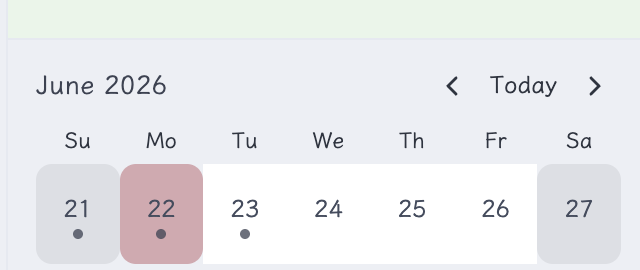
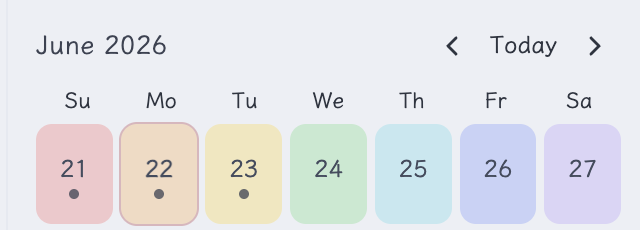
Differentiate calendar design with rainbow dates

diff --git a/styles.css b/styles.css
@@ -21,6 +21,7 @@
 
 .mini-calendar {
   --mini-calendar-cell-height: 50px;
+  --mini-calendar-day-gap: 4px;
   box-sizing: border-box;
   min-width: 238px;
   padding: 10px 14px 8px;
@@ -135,6 +136,7 @@ button.mini-calendar__today:focus-visible,
 
 .mini-calendar__days {
   align-items: stretch;
+  gap: var(--mini-calendar-day-gap);
 }
 
 .mini-calendar__day {
@@ -148,46 +150,120 @@ button.mini-calendar__today:focus-visible,
   margin: 0;
   padding: 2px 0 0;
   color: var(--text-muted);
-  background: transparent;
-  border-radius: 0;
+  background: color-mix(in srgb, var(--background-modifier-hover) 58%, transparent);
+  border: 1px solid transparent;
+  border-radius: var(--radius-m);
   cursor: pointer;
 }
 
-.mini-calendar__day.is-weekend {
-  background: var(--background-modifier-hover);
+.mini-calendar:not(.is-rainbow) .mini-calendar__day.is-weekend {
+  background: #e8f5e9;
+  border-color: #d6e8df;
 }
 
-.mini-calendar__day.is-weekend-start {
-  border-radius: var(--radius-m) 0 0 var(--radius-m);
+.mini-calendar:not(.is-rainbow) .mini-calendar__day.is-weekend.is-today {
+  border-color: var(--interactive-accent);
 }
 
-.mini-calendar__day.is-weekend-end {
-  border-radius: 0 var(--radius-m) var(--radius-m) 0;
+body.theme-dark .mini-calendar:not(.is-rainbow) .mini-calendar__day.is-weekend {
+  background: color-mix(in srgb, #498f6f 24%, var(--background-secondary));
+  border-color: color-mix(in srgb, #498f6f 44%, transparent);
 }
 
-.mini-calendar__day.is-weekend-start.is-weekend-end {
-  border-radius: var(--radius-m);
+body.theme-dark .mini-calendar:not(.is-rainbow) .mini-calendar__day.is-weekend.is-today {
+  border-color: var(--interactive-accent);
 }
 
 .mini-calendar__day:hover {
   color: var(--text-normal);
-  background: color-mix(in srgb, var(--interactive-accent) 12%, var(--background-secondary));
-  border-radius: var(--radius-m);
+  background: color-mix(in srgb, var(--interactive-accent) 14%, var(--background-secondary));
+  border-color: color-mix(in srgb, var(--interactive-accent) 45%, transparent);
 }
 
 .mini-calendar__day.is-today {
   color: var(--text-normal);
-  background: color-mix(in srgb, var(--interactive-accent) 55%, var(--background-secondary));
-  border-radius: var(--radius-m);
+  background: color-mix(in srgb, var(--interactive-accent) 16%, var(--background-secondary));
+  border-color: var(--interactive-accent);
+  font-weight: var(--font-semibold);
 }
 
 .mini-calendar__day.is-active-note::after {
   content: "";
   position: absolute;
-  inset: 2px;
-  border: 1px solid var(--interactive-accent);
-  border-radius: var(--radius-m);
+  inset: 3px;
+  border: 1px solid color-mix(in srgb, var(--interactive-accent) 75%, transparent);
+  border-radius: calc(var(--radius-m) - 2px);
   pointer-events: none;
+}
+
+.mini-calendar.is-rainbow .mini-calendar__day:nth-child(1) {
+  background: color-mix(in srgb, #ff6b6b 30%, var(--background-secondary));
+}
+
+.mini-calendar.is-rainbow .mini-calendar__day:nth-child(2) {
+  background: color-mix(in srgb, #ffa94d 30%, var(--background-secondary));
+}
+
+.mini-calendar.is-rainbow .mini-calendar__day:nth-child(3) {
+  background: color-mix(in srgb, #ffd43b 30%, var(--background-secondary));
+}
+
+.mini-calendar.is-rainbow .mini-calendar__day:nth-child(4) {
+  background: color-mix(in srgb, #69db7c 30%, var(--background-secondary));
+}
+
+.mini-calendar.is-rainbow .mini-calendar__day:nth-child(5) {
+  background: color-mix(in srgb, #66d9e8 30%, var(--background-secondary));
+}
+
+.mini-calendar.is-rainbow .mini-calendar__day:nth-child(6) {
+  background: color-mix(in srgb, #748ffc 30%, var(--background-secondary));
+}
+
+.mini-calendar.is-rainbow .mini-calendar__day:nth-child(7) {
+  background: color-mix(in srgb, #b197fc 30%, var(--background-secondary));
+}
+
+.mini-calendar.is-rainbow .mini-calendar__day:hover {
+  border-color: color-mix(in srgb, currentColor 35%, transparent);
+  filter: saturate(1.12) brightness(1.03);
+}
+
+.mini-calendar.is-rainbow .mini-calendar__day.is-today {
+  border-color: var(--interactive-accent);
+  box-shadow: 0 0 0 1px color-mix(in srgb, var(--interactive-accent) 45%, transparent);
+}
+
+body.theme-dark .mini-calendar.is-rainbow .mini-calendar__day {
+  background-blend-mode: normal;
+}
+
+body.theme-dark .mini-calendar.is-rainbow .mini-calendar__day:nth-child(1) {
+  background: color-mix(in srgb, #ff6b6b 22%, var(--background-secondary));
+}
+
+body.theme-dark .mini-calendar.is-rainbow .mini-calendar__day:nth-child(2) {
+  background: color-mix(in srgb, #ffa94d 22%, var(--background-secondary));
+}
+
+body.theme-dark .mini-calendar.is-rainbow .mini-calendar__day:nth-child(3) {
+  background: color-mix(in srgb, #ffd43b 22%, var(--background-secondary));
+}
+
+body.theme-dark .mini-calendar.is-rainbow .mini-calendar__day:nth-child(4) {
+  background: color-mix(in srgb, #69db7c 22%, var(--background-secondary));
+}
+
+body.theme-dark .mini-calendar.is-rainbow .mini-calendar__day:nth-child(5) {
+  background: color-mix(in srgb, #66d9e8 22%, var(--background-secondary));
+}
+
+body.theme-dark .mini-calendar.is-rainbow .mini-calendar__day:nth-child(6) {
+  background: color-mix(in srgb, #748ffc 22%, var(--background-secondary));
+}
+
+body.theme-dark .mini-calendar.is-rainbow .mini-calendar__day:nth-child(7) {
+  background: color-mix(in srgb, #b197fc 22%, var(--background-secondary));
 }
 
 .mini-calendar__day-number {
@@ -234,5 +310,9 @@ button.mini-calendar__today:focus-visible,
 
   .mini-calendar__day {
     --mini-calendar-cell-height: 49px;
+  }
+
+  .mini-calendar {
+    --mini-calendar-day-gap: 3px;
   }
 }

diff --git a/src/settings.ts b/src/settings.ts
@@ -6,12 +6,14 @@ export type WeekStartSetting = "locale" | "monday" | "sunday";
 
 export interface MiniCalendarSettings {
   confirmNonTodayCreation: boolean;
+  rainbowDates: boolean;
   showWeekNumber: boolean;
   weekStart: WeekStartSetting;
 }
 
 export const DEFAULT_SETTINGS: MiniCalendarSettings = {
   confirmNonTodayCreation: true,
+  rainbowDates: true,
   showWeekNumber: false,
   weekStart: "locale"
 };
@@ -26,6 +28,9 @@ export function normalizeSettings(value: unknown): MiniCalendarSettings {
     confirmNonTodayCreation: typeof loaded.confirmNonTodayCreation === "boolean"
       ? loaded.confirmNonTodayCreation
       : DEFAULT_SETTINGS.confirmNonTodayCreation,
+    rainbowDates: typeof loaded.rainbowDates === "boolean"
+      ? loaded.rainbowDates
+      : DEFAULT_SETTINGS.rainbowDates,
     showWeekNumber: typeof loaded.showWeekNumber === "boolean"
       ? loaded.showWeekNumber
       : DEFAULT_SETTINGS.showWeekNumber,
@@ -72,6 +77,15 @@ export class MiniCalendarSettingTab extends PluginSettingTab {
         .setValue(this.plugin.settings.showWeekNumber)
         .onChange(async value => {
           await this.plugin.updateSettings({ showWeekNumber: value });
+        }));
+
+    new Setting(containerEl)
+      .setName(strings.settings.rainbowDates.name)
+      .setDesc(strings.settings.rainbowDates.description)
+      .addToggle(toggle => toggle
+        .setValue(this.plugin.settings.rainbowDates)
+        .onChange(async value => {
+          await this.plugin.updateSettings({ rainbowDates: value });
         }));
   }
 }

diff --git a/src/i18n.ts b/src/i18n.ts
@@ -18,6 +18,7 @@ export interface MiniCalendarStrings {
   previousWeek: string;
   settings: {
     confirmNonToday: { description: string; name: string };
+    rainbowDates: { description: string; name: string };
     showWeekNumber: { description: string; name: string };
     weekStart: {
       description: string;
@@ -50,6 +51,10 @@ const en: MiniCalendarStrings = {
     confirmNonToday: {
       description: "Ask before creating a daily note for a past or future date. Today's note never requires confirmation.",
       name: "Confirm past and future notes"
+    },
+    rainbowDates: {
+      description: "Give the seven date cards distinct low-saturation rainbow backgrounds.",
+      name: "Rainbow dates"
     },
     showWeekNumber: {
       description: "Show the ISO week number in the calendar header.",
@@ -86,6 +91,10 @@ const zh: MiniCalendarStrings = {
     confirmNonToday: {
       description: "创建过去或未来日期的日记前询问；创建今天的日记始终无需确认。",
       name: "确认创建非当日日记"
+    },
+    rainbowDates: {
+      description: "为一周七个日期卡片设置不同的低饱和彩虹背景色。",
+      name: "彩虹日期"
     },
     showWeekNumber: {
       description: "在日历标题中显示 ISO 周号。",

diff --git a/src/calendar-widget.ts b/src/calendar-widget.ts
@@ -44,6 +44,7 @@ export class MiniCalendarWidget {
     root.setAttr("aria-label", strings.calendarLabel);
 
     const calendar = root.createDiv({ cls: "mini-calendar" });
+    calendar.toggleClass("is-rainbow", this.plugin.settings.rainbowDates);
     const header = calendar.createDiv({ cls: "mini-calendar__header" });
     const title = header.createDiv({ cls: "mini-calendar__title" });
     title.createSpan({